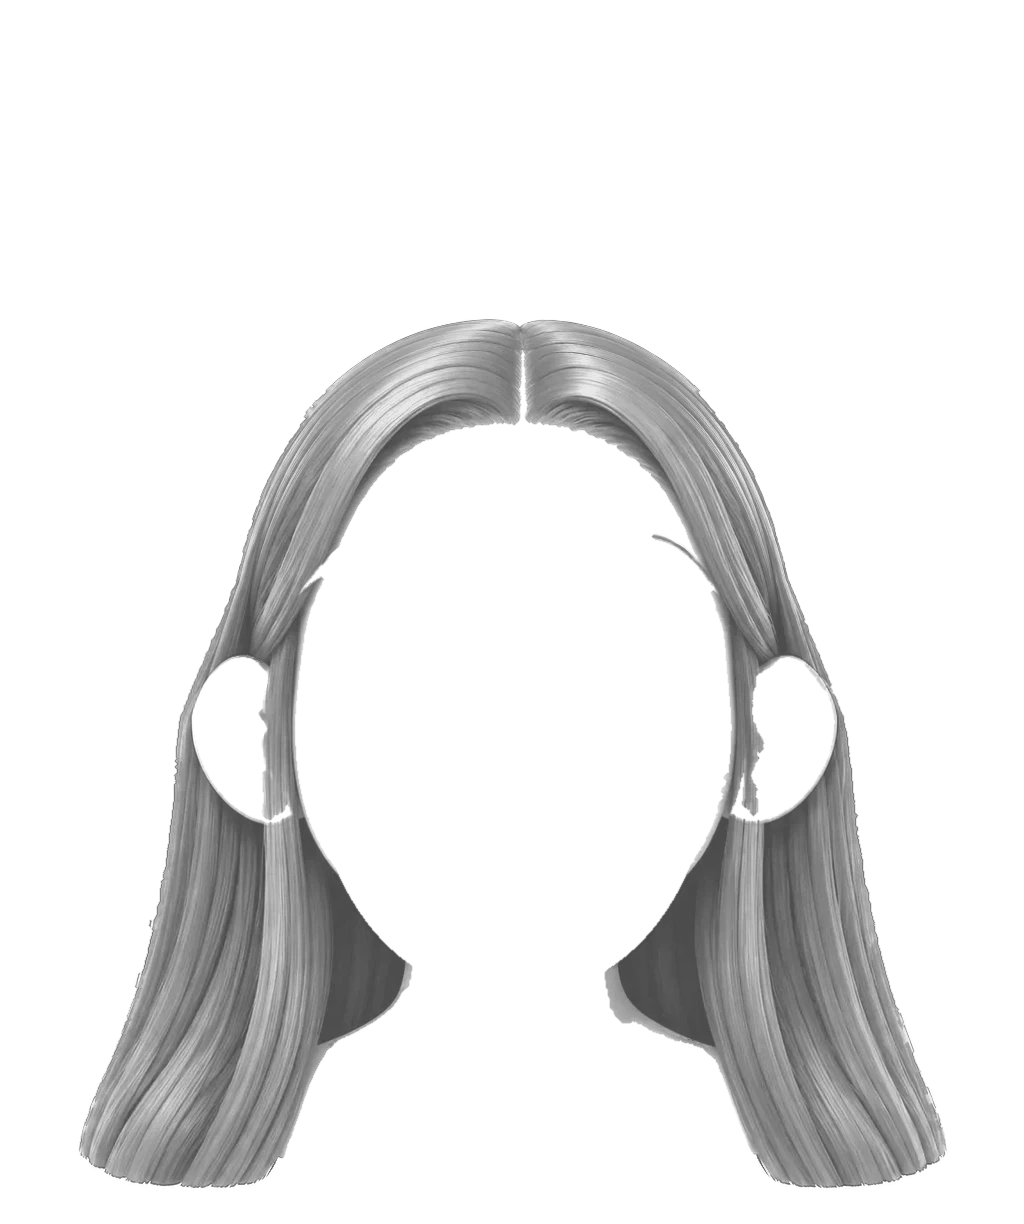
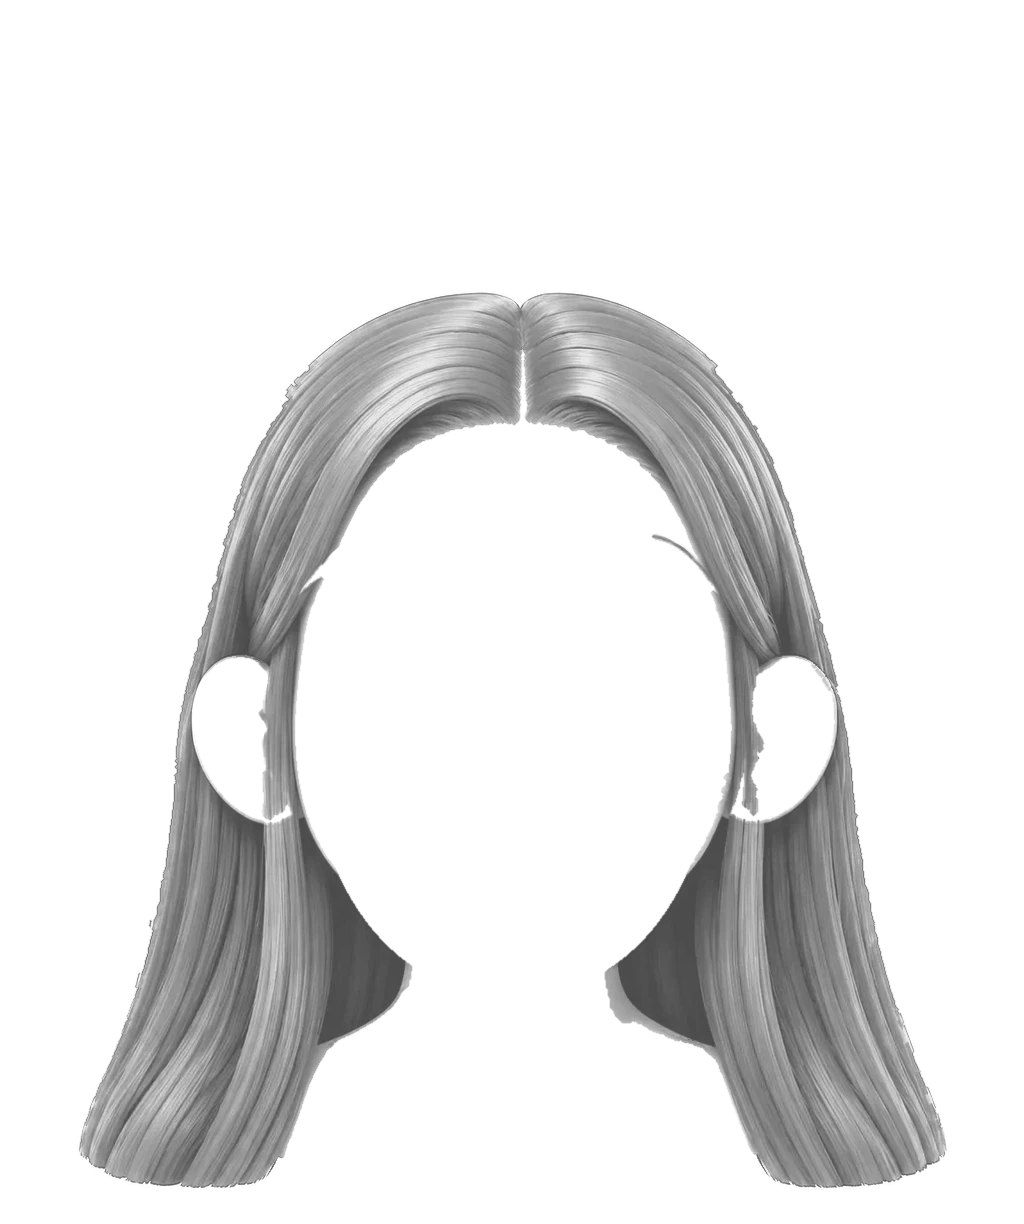
Put the long straight hair back as it was drawn
Only the short curls were too big for the head; the long straight style
shouldn't have been pulled in. Styles now go in as drawn, and are only pulled in
when asked.

Changed region(s): [[0.1875, 0.2173, 0.8125, 0.5588], [0.8125, 0.5588, 0.8438, 0.5899], [0.1562, 0.5588, 0.1875, 0.5899]]

diff --git a/docs/ARCHITECTURE.md b/docs/ARCHITECTURE.md
@@ -465,7 +465,7 @@ Players pick one of the 12 built-in pictures, or make their own in the **avatar 
 - **The code.** A made-up avatar is stored and sent as a short code, `w1.` followed by one id per part in the order of `AVATAR_FIELDS` (`packages/protocol/src/accounts.ts`), e.g. `w1.classic.4.none…`. It goes wherever a built-in avatar id goes: the join message, the account, the room and match history. The server only checks its shape (`isAvatarValue`), allowing up to 32 parts. New parts are only ever added to the end, so older codes stay valid, and the web app draws any part it doesn't know as the default. Part, colour, pose and expression ids are never renamed, and colours are only ever added to the end of a palette.
 - **Poses.** Each pose is its own template, with every part drawn for that angle, in `apps/web/public/art/avatar-parts/<pose>/<category>/<option>/<file>`. A pose can reuse another's art flipped left to right (`mirrorOf`). Each option lists the poses it has art for, and the creator only offers what the chosen pose has. Today there's one pose, `front`.
 - **The parts** are listed in `apps/web/src/avatar/parts.ts`: the files each option has, whether a hat covers the top of the hair, all of it or none, whether a part is painted once for each value of another part (`paintedFor`: a head per skin tone, `head-3.webp`; an eye per eye colour, `open-3.webp`; a mouth per skin tone, `mouth-3.webp`, with only the lips recoloured to suit the skin; every mouth hangs from the same line under the nose, and open mouths are made smaller so none is more than 100 pixels tall on the grid and reaches the chin), and whether it's a pair (`pair`): eyes, lashes and eyebrows are drawn for the left of the picture only, and the right is the same art flipped around the middle of the face. Lashes are made once for each eye shape (`paintedFor: "eyes"`, `lashes-e3.webp`): when the files are made, the top edge of each eye's lid is measured and the base of each lash style is bent onto it, column by column, so the lashes grow out of the lid with no gap on any eye shape. Past the outer corner the lashes keep their own flick, and they stop at the inner corner. The eyebrows move up or down with the eye shape (`browDrop`), so they sit as far above every eye as above Eyes 2, and move up a little more for lashes tall enough to reach them (`browLift`, only Lashes 11 today), leaving at least 8 pixels between lashes and brows on the grid. The eye gap moves the eyes, lashes and eyebrows out from (or in to) the middle together, 6 pixels on the grid per step. The head comes with its neck and shoulders, so clothes are drawn over it. A unit test checks that every listed file exists, in every pose and tone.
-- **Hair on the template.** New hair is drawn by the owner's image generator on the head template (the bald head on a 1024 × 1224 canvas, 200 pixels of room above the grid), so it fits the head as it is. The generator often changes the picture's size and moves the head, so the picture (a see-through background counting as white) is resized and moved until its skin lines up best with the template's. The hair is what's darker than the template there and not skin coloured, outside the face itself. Deep inside the hair it's solid; near its edges, and where it fades into the skin (a fade haircut), how see-through it is comes from how much darker it is than the template. The generator tends to draw the hair bigger than the head, so it's then pulled in: along lines from the middle of the head, hair outside the skull keeps 55% of its distance from it, most at the top and upper sides and not at all below the eyes, so long hair still falls as drawn. It's turned to grey for the hair colour, and a soft `shadow` file of it is drawn on the skin just after the head. Styles made this way have ids starting `hc`.
+- **Hair on the template.** New hair is drawn by the owner's image generator on the head template (the bald head on a 1024 × 1224 canvas, 200 pixels of room above the grid), so it fits the head as it is. The generator often changes the picture's size and moves the head, so the picture (a see-through background counting as white) is resized and moved until its skin lines up best with the template's. The hair is what's darker than the template there and not skin coloured, outside the face itself. Deep inside the hair it's solid; near its edges, and where it fades into the skin (a fade haircut), how see-through it is comes from how much darker it is than the template. Styles go in as drawn. One that the owner finds too big for the head (the short curls) is pulled in: along lines from the middle of the head, hair outside the skull keeps 55% of its distance from it, most at the top and upper sides and not at all below the eyes, so long hair still falls as drawn. It's turned to grey for the hair colour, and a soft `shadow` file of it is drawn on the skin just after the head. Styles made this way have ids starting `hc`.
 - **Hair from other art.** The first test styles (`hb`) were painted on a head with a longer, narrower face than ours, so each style is bent to fit when its files are made, rather than scaled as one piece (which made it sit on the head like a wig): the crown is sized so its edge just above the hairline (250 on the grid) sits on our skull plus the hair's own thickness, and follows the skull's curve lower down; the face opening is widened to 410 wide, a little narrower than the head, so the hair covers the sides of the head instead of stopping at its edge; the hair around the face keeps the crown's proportions, so it isn't blown up; and between the hairline and the ears the hair always reaches past the edge of the skull. Hair files reach 200 pixels above the grid (`above`), so tall styles like buns fit, and the whole avatar is drawn at 85% of its circle from the bottom (`FRAME` in `render.ts`), leaving room above the head as in the reference art; close-ups in the creator show the parts at full size. Long hair has a `back` file drawn behind the head: the hair behind the neck, and a dark fill for the back of the hair between the hair and the face. The hair is turned to grey for the hair colour, and hair cuffs are kept in their own colours in a `details` file drawn over it.
 - **Colours.** Parts the player recolours (hair, eyebrows, facial hair, clothes, some hats) are drawn in grey with the main colour at 55% grey, and the browser colours them with a gradient map: dark greys become the shadow colour, the main grey the chosen colour, light greys the highlight, and white stays white.
 - **Expressions.** The player only picks their parts; the saved expression is Happy, which uses the mouth they picked. The other faces (laughing, wink, cheeky, surprised, thinking) each use one of the twelve mouths, and are for the game to pull for a reaction (`avatarPicture` takes a `Face`); the winks need eyes with a closed version. A wink joins half of the open eyes with half of the closed ones.
